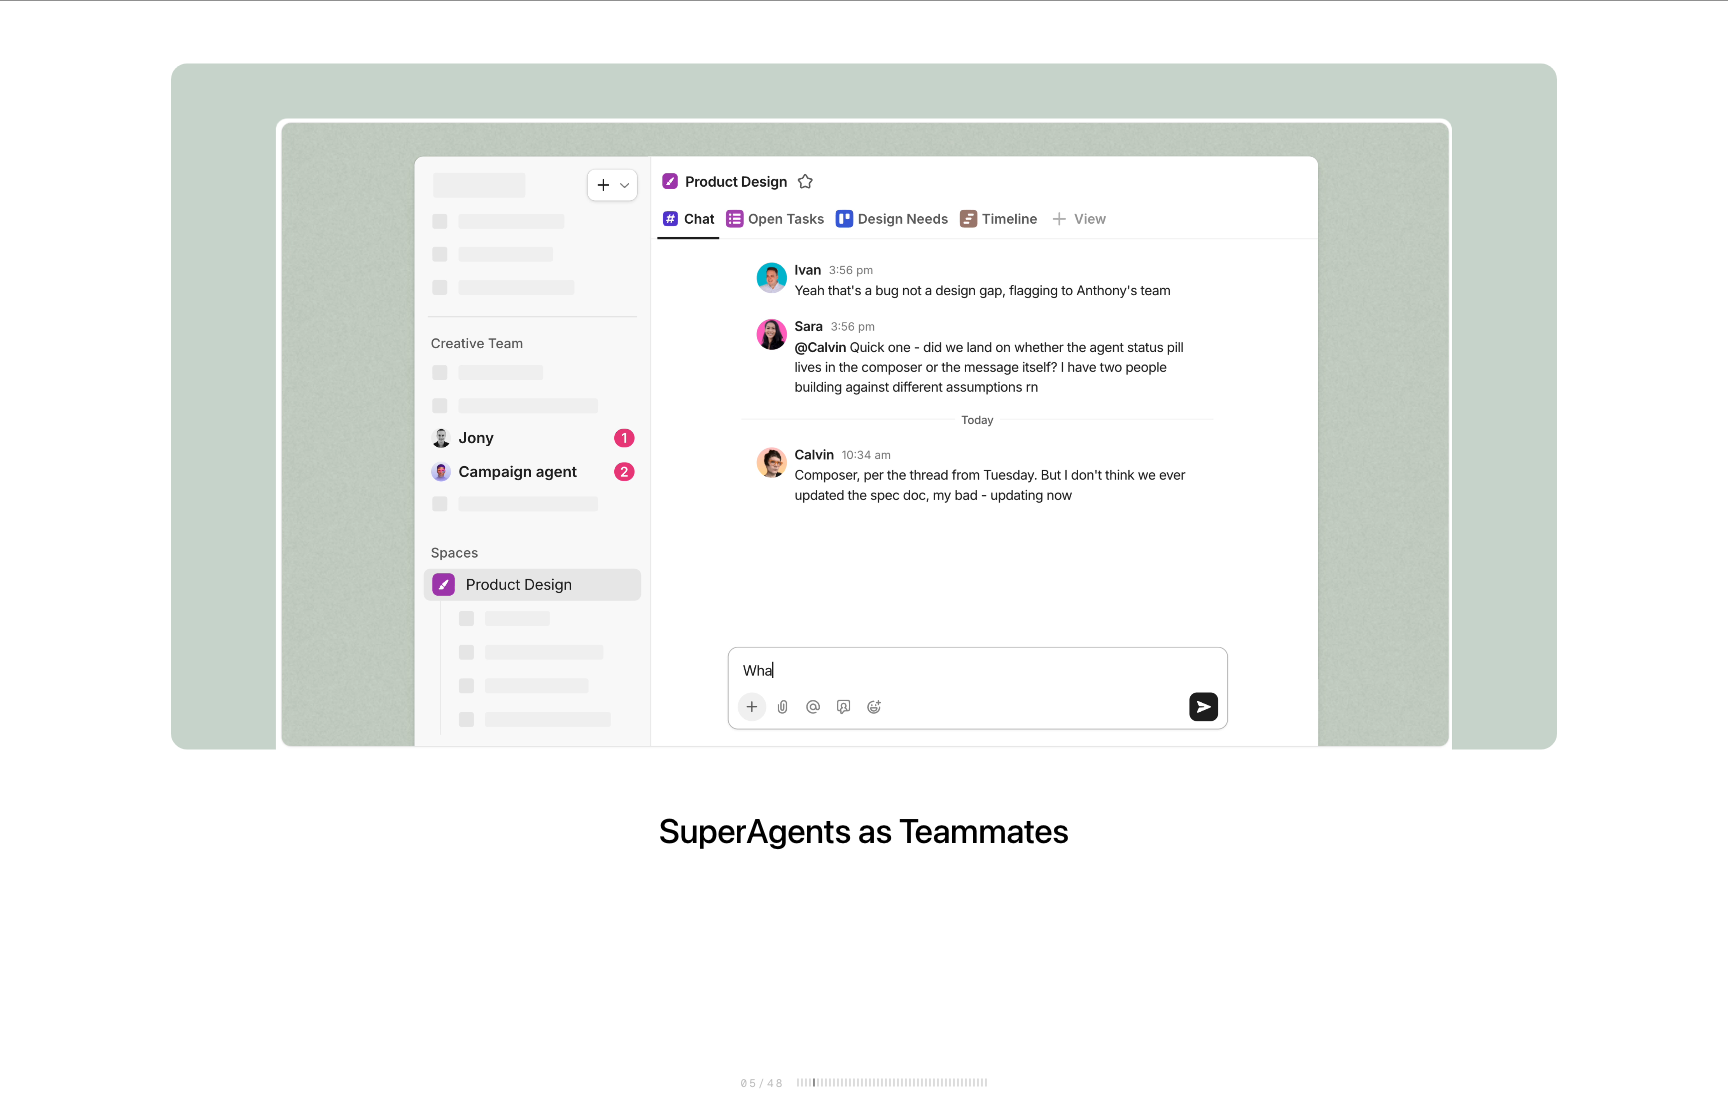
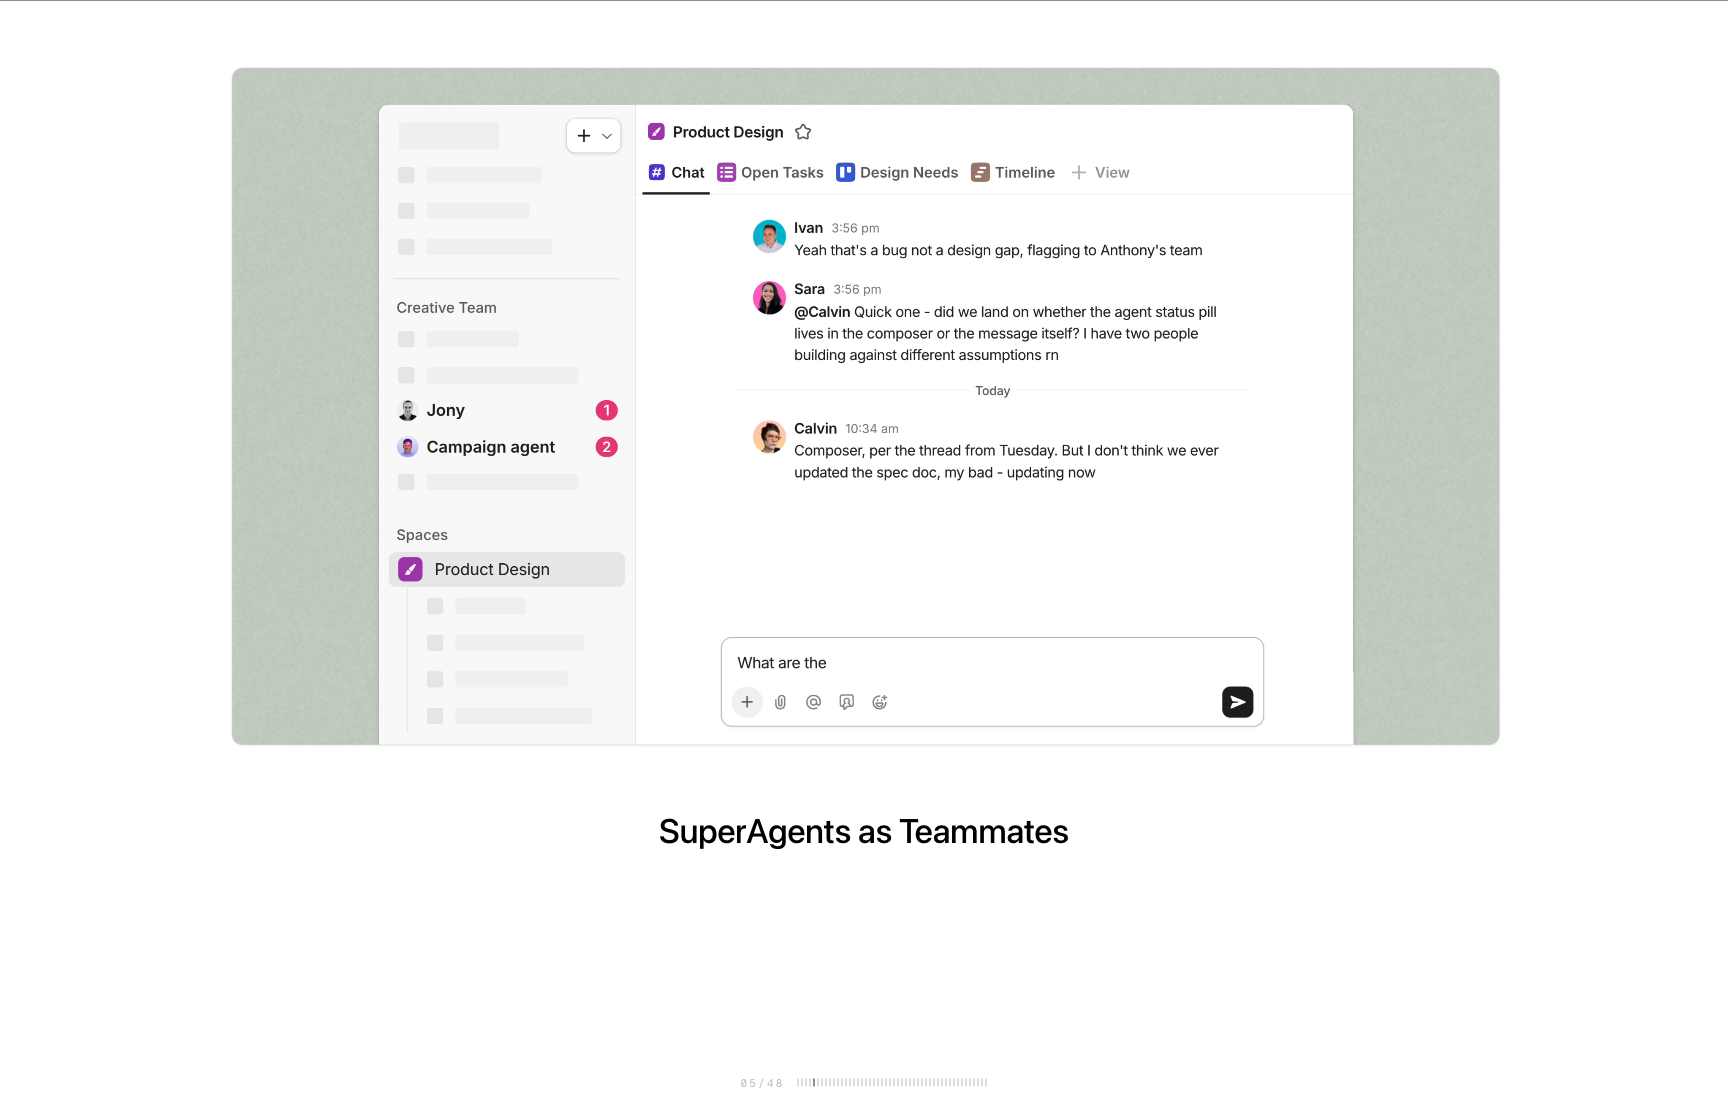
Enlarge intro slide 05 video and remove backdrop

Changed region(s): [[0.0938, 0.0304, 0.9062, 0.6697], [0.4688, 0.6088, 0.5312, 0.6392], [0.4062, 0.5783, 0.4688, 0.6088]]

diff --git a/src/components/intropres/IntroPresentation.tsx b/src/components/intropres/IntroPresentation.tsx
@@ -221,8 +221,8 @@ function SlideContent({ slide }: { slide: Slide }) {
   if (slide.kind === "project-overview") {
     return (
       <div className="intro-overview">
-        <div className="intro-green-panel">
-          <video className="intro-overview-video" src={slide.videoSrc} aria-label="SuperAgents as Teammates" autoPlay loop muted playsInline preload="auto" />
+        <div className="intro-green-panel intro-green-panel--slide-27">
+          <video className="intro-overview-video intro-overview-video--slide-27" src={slide.videoSrc} aria-label="SuperAgents as Teammates" autoPlay loop muted playsInline preload="auto" />
         </div>
         <p className="intro-overview-headline"><span>SuperAgents as Teammates</span></p>
       </div>

diff --git a/src/components/intropres/IntroPresentation.css b/src/components/intropres/IntroPresentation.css
@@ -255,8 +255,13 @@
 }
 
 .intro-overview-video--slide-27 {
+  inset: 0;
+  transform: none;
+  width: 100%;
+  height: 100%;
+  background: transparent;
   border-radius: var(--presentation-radius-image);
-  box-shadow: var(--elevation-border-1);
+  box-shadow: none;
   clip-path: inset(0 0 1px 0 round var(--presentation-radius-image));
 }
 
@@ -273,4 +278,3 @@
 .intro-overview > p {
   transform: translateY(var(--spacing-5));
 }
-
